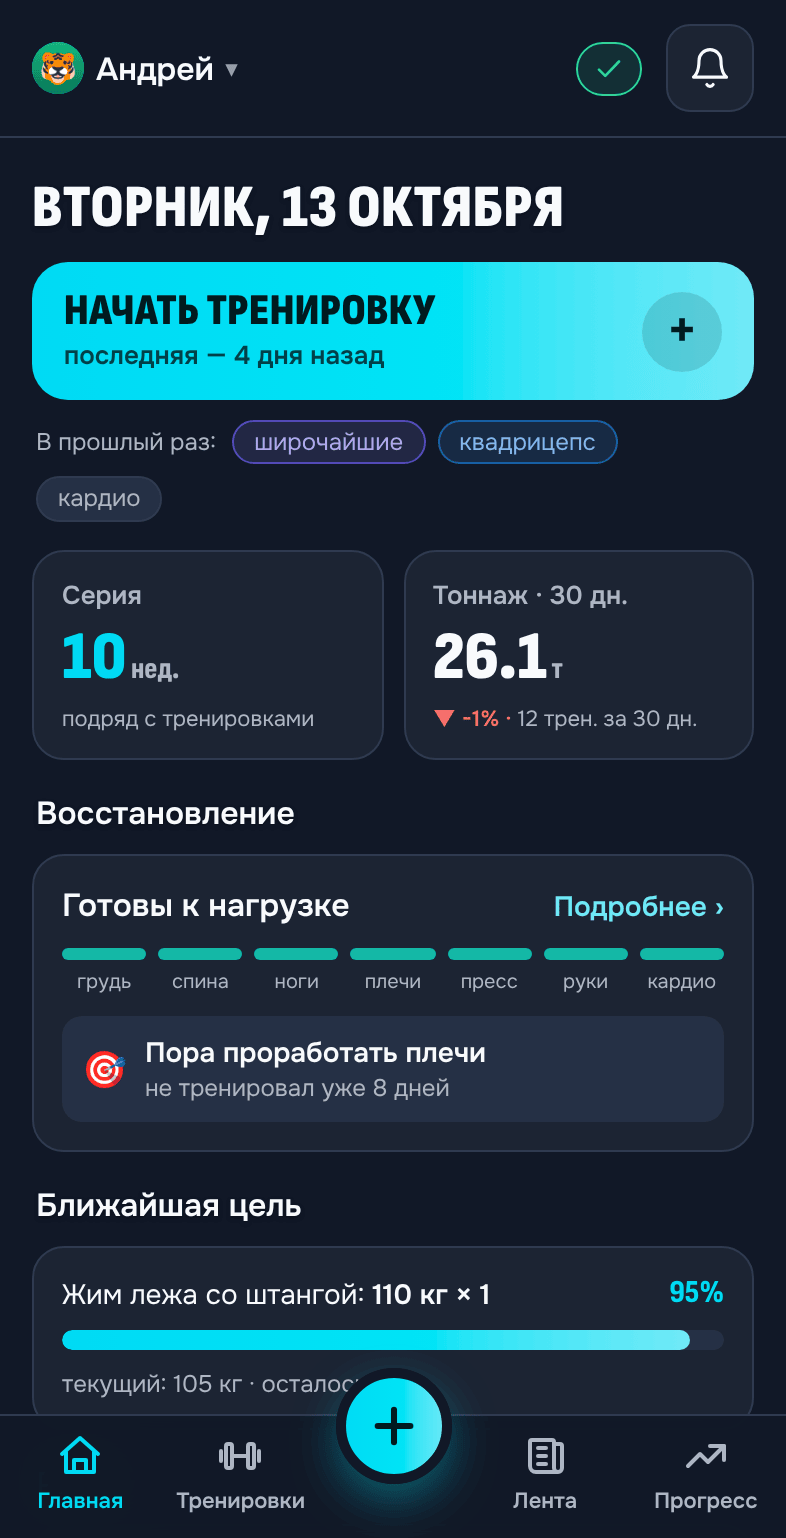
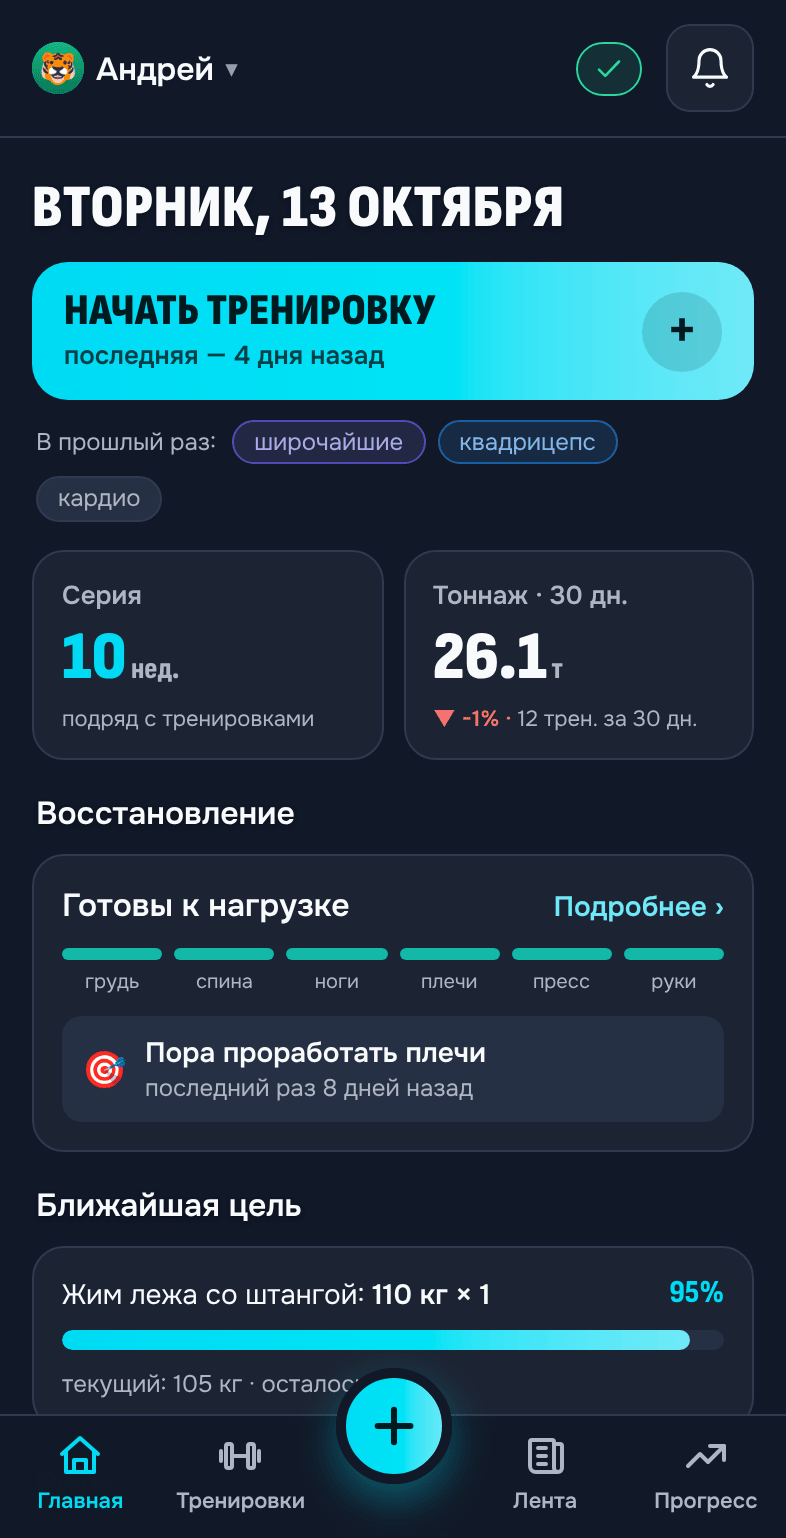
fix(recovery): кардио отдельной строкой, подсказка без рода глагола

diff --git a/src/screens/FreshnessScreen.jsx b/src/screens/FreshnessScreen.jsx
@@ -5,7 +5,8 @@ import { getWorkouts } from '../db/repo.js'
 import { groupVolumeTrend, trendLabel, WEEKS } from '../lib/groupVolume.js'
 import { plural } from '../lib/plural.js'
 import { readinessView, recoveryLead, fmtHoursLeft, regionTarget } from '../lib/freshness.js'
-import { fmtDaysAgo, fmtDays } from '../lib/homeSummary.js'
+import { fmtDaysAgo } from '../lib/homeSummary.js'
+import { LEAD_TARGET, leadSince, cardioLine } from '../lib/recoveryText.js'
 import { labelOf } from '../lib/muscles.js'
 import { groupAccusative } from '../lib/dayTags.js'
 import { byGender } from '../lib/gender.js'
@@ -29,24 +30,29 @@ const TABS = [
 // Подсказка сверху — та же логика, что у тизера Главной (recoveryLead по группам),
 // чтобы Главная и этот экран не противоречили друг другу.
 // v6.3.5: группа-цель — кнопка: подсвечивает ее мышцы на карте и в «таблетках».
-function Tip({ lead, sex, onFocusGroup }) {
-  if (!lead) return null
-  let text
-  if (lead.kind === 'target') {
+// v7.5.6: текст — lib/recoveryText (как на Главной), без рода глагола; кардио в
+// подсказку про мышцы не попадает, о нем — отдельная тихая строка (cardioDays).
+function Tip({ lead, cardioDays, onFocusGroup }) {
+  if (!lead && cardioDays == null) return null
+  let text = null
+  if (lead?.kind === 'target') {
     const g = groupAccusative(lead.item.group)
     const word = onFocusGroup
       ? <button type="button" className="fr-tip-target" onClick={() => onFocusGroup(lead.item.group)}>{g}</button>
       : <b>{g}</b>
-    text = <>Сегодня пора проработать {word} — не {byGender(sex, 'тренировал', 'тренировала')} уже {fmtDays(lead.item.daysSince)}</>
-  } else if (lead.kind === 'resting') {
+    text = <>{LEAD_TARGET} {word} — {leadSince(lead.item.daysSince)}</>
+  } else if (lead?.kind === 'resting') {
     text = <>Отдыхают: <b>{lead.items.map((f) => f.group).join(', ')}</b>. Остальное можно тренировать</>
-  } else {
+  } else if (lead) {
     text = <>Все тренированные мышцы восстановились — <b>выбирай любую группу</b></>
   }
   return (
     <div className="fr-tip">
-      <span className="em" aria-hidden="true">🎯</span>
-      <p>{text}</p>
+      <span className="em" aria-hidden="true">{text ? '🎯' : '🏃'}</span>
+      <div className="fr-tip-body">
+        {text && <p>{text}</p>}
+        {cardioDays != null && <p className="fr-tip-cardio">{text && <span aria-hidden="true">🏃 </span>}{cardioLine(cardioDays)}</p>}
+      </div>
     </div>
   )
 }
@@ -147,7 +153,7 @@ export default function FreshnessScreen({ user, onBack }) {
         </p>
       ) : (
         <>
-          <Tip lead={lead} sex={data?.sex} onFocusGroup={focusOn} />
+          <Tip lead={lead} cardioDays={data?.cardio ?? null} onFocusGroup={focusOn} />
 
           <div className="fr-map">
             <MuscleMap bySub={view.bySub} selected={mapSelected} onSelect={pickRegion} />

diff --git a/src/screens/HomeScreen.jsx b/src/screens/HomeScreen.jsx
@@ -2,14 +2,14 @@ import { useEffect, useRef, useState } from 'react'
 import { fmtHomeTitle } from '../lib/dates.js'
 import { useLiveQuery } from 'dexie-react-hooks'
 import { getHomeData } from '../db/insights.js'
-import { fmtDaysAgo, fmtDays } from '../lib/homeSummary.js'
+import { fmtDaysAgo } from '../lib/homeSummary.js'
 import { fmtTonnage } from '../lib/profileStats.js'
 import { fmtMetricValue } from '../lib/metric.js'
 import { plural } from '../lib/plural.js'
-import { tagSlug, groupAccusative, GROUP_ORDER } from '../lib/dayTags.js'
+import { tagSlug, GROUP_ORDER } from '../lib/dayTags.js'
 import { recoveryLead, readinessStatus } from '../lib/freshness.js'
 import { labelOf, majorOf } from '../lib/muscles.js'
-import { byGender } from '../lib/gender.js'
+import { leadTarget, leadSince, cardioLine } from '../lib/recoveryText.js'
 import { rhythmChart, fmtAvg, avgWord, mondayLabel } from '../lib/rhythmChart.js'
 import { useRevealFocus } from '../hooks/useRevealFocus.js'
 import CardsSkeleton from '../components/CardsSkeleton.jsx'
@@ -122,6 +122,7 @@ export default function HomeScreen({ user, onNavigate, onNewWorkout, onOpenProgr
   const rec = freshness?.recovery ?? []
   const strip = [...rec].sort((a, b) => canonIdx(a.group) - canonIdx(b.group))
   const lead = recoveryLead(rec)
+  const cardioDays = freshness?.cardio ?? null // v7.5.6: кардио — отдельной строкой, не «мышцей»
 
   // Порядок блоков (редизайн v6, этап 3; отзывы друзей): действие → серия и цифры →
   // готовность мышц и ближайшая цель ВВЕРХУ → ритм → наблюдения → рекорд.
@@ -193,8 +194,8 @@ export default function HomeScreen({ user, onNavigate, onNewWorkout, onOpenProgr
               <div className="fr-lead">
                 <span className="em" aria-hidden="true">🎯</span>
                 <div className="fr-lead-body">
-                  <div className="v">Пора проработать {groupAccusative(lead.item.group)}</div>
-                  <div className="k">не {byGender(home?.sex, 'тренировал', 'тренировала')} уже {fmtDays(lead.item.daysSince)}</div>
+                  <div className="v">{leadTarget(lead.item.group)}</div>
+                  <div className="k">{leadSince(lead.item.daysSince)}</div>
                 </div>
               </div>
             ) : lead?.kind === 'resting' ? (
@@ -216,6 +217,7 @@ export default function HomeScreen({ user, onNavigate, onNewWorkout, onOpenProgr
                 </div>
               </div>
             )}
+            {cardioDays != null && <div className="fr-cardio"><span aria-hidden="true">🏃</span> {cardioLine(cardioDays)}</div>}
           </button>
         </section>
       )}

diff --git a/src/lib/freshness.js b/src/lib/freshness.js
@@ -97,6 +97,21 @@ export function freshnessBucket(daysSince) {
 // свежее — тем ниже. overdue > due > recent > fresh.
 const BUCKET_RANK = { overdue: 4, due: 3, recent: 2, fresh: 1, never: 0 }
 
+// Кардио — не мышца (v7.5.6): в готовность мышц, «пора проработать» и «отдыхают»
+// не входит (на подмышечном уровне исключено давно). Про него — отдельная тихая
+// строка «Кардио не было N дней» (cardioGap), если перерыв от CARDIO_NUDGE_DAYS.
+export const CARDIO_GROUP = 'кардио'
+export const CARDIO_NUDGE_DAYS = 7
+
+// Дней с последнего кардио, если перерыв ≥ CARDIO_NUDGE_DAYS; иначе (или кардио не
+// было ни разу — значит, человек его не делает и напоминать не о чем) — null.
+export function cardioGap(workouts, { now = new Date() } = {}) {
+  const cur = lastTrainedByGroup(workouts).get(CARDIO_GROUP)
+  if (!cur) return null
+  const days = dayIndex(now) - cur.day
+  return days >= CARDIO_NUDGE_DAYS ? days : null
+}
+
 // Свежесть тренированных групп: массив
 //   { group, at, daysSince, hoursSince, recoveryHours, state, bucket }
 // отсортированный «кого пора тренировать» вниз к «свежим». Группы без истории
@@ -107,6 +122,7 @@ export function groupFreshness(workouts, { now = new Date() } = {}) {
   const nowT = (now instanceof Date ? now : new Date(now)).getTime()
   const out = []
   for (const [g, { day, at, t }] of map) {
+    if (g === CARDIO_GROUP) continue
     const daysSince = today - day
     const hoursSince = Math.max(0, (nowT - t) / 3600000)
     const recoveryHours = recoveryHoursFor(g)

diff --git a/src/lib/dayTags.js b/src/lib/dayTags.js
@@ -84,12 +84,20 @@ export function tagSlug(group) {
 // Винительный падеж названия группы — для фраз «тренировать <что?>» / «проработать
 // <что?>» (иначе выходит «спина не тренировал»). У большинства групп винительный
 // совпадает с именительным (грудь/ноги/плечи/бицепс/трицепс/пресс), отличается
-// только «спина» → «спину». Неизвестные группы возвращаем как есть.
+// только «спина» → «спину». Неизвестные (свои) группы из одного слова склоняем по
+// окончанию (v7.5.6): «-а» после согласной → «-у», «-ея» → «-ею» («шея» → «шею»);
+// множественное («предплечья», «икры») и прочее — как есть.
 const GROUP_ACCUSATIVE = {
   'спина': 'спину',
 }
 export function groupAccusative(group) {
-  return group ? (GROUP_ACCUSATIVE[group] ?? group) : group
+  if (!group) return group
+  if (GROUP_ACCUSATIVE[group]) return GROUP_ACCUSATIVE[group]
+  if (/^[а-яё]+$/i.test(group)) {
+    if (/[^аеёиоуыэюяьъй]а$/i.test(group)) return group.slice(0, -1) + 'у'
+    if (/ея$/i.test(group)) return group.slice(0, -1) + 'ю'
+  }
+  return group
 }
 
 // Тренировка попадает под фильтр группы (true для пустого/нулевого фильтра — «Все»).

diff --git a/src/lib/freshness.test.js b/src/lib/freshness.test.js
@@ -19,6 +19,7 @@ import {
   submuscleFreshness,
   submuscleImbalance,
   regionTarget,
+  cardioGap,
 } from './freshness.js'
 
 function wk({ id, at, entries, deleted }) {
@@ -117,6 +118,27 @@ describe('groupFreshness', () => {
   })
   it('пустая история → пустой массив', () => {
     expect(groupFreshness([], { now: NOW })).toEqual([])
+  })
+  // v7.5.6: кардио — не мышца: ни «пора проработать кардио», ни «отдыхают: кардио».
+  it('кардио в готовность мышц не входит', () => {
+    const list = [
+      wk({ id: 'run', at: daysAgo(20), entries: [{ exId: 'run', group: 'кардио' }] }),
+      wk({ id: 'back', at: daysAgo(8), entries: [{ exId: 'row', group: 'спина' }] }),
+    ]
+    expect(groupFreshness(list, { now: NOW }).map((f) => f.group)).toEqual(['спина'])
+  })
+})
+
+describe('cardioGap (v7.5.6)', () => {
+  const run = (n) => wk({ id: `run${n}`, at: daysAgo(n), entries: [{ exId: 'run', group: 'кардио' }] })
+  it('перерыв от 7 дней — число дней, свежее — null', () => {
+    expect(cardioGap([run(8), run(20)], { now: NOW })).toBe(8)
+    expect(cardioGap([run(7)], { now: NOW })).toBe(7)
+    expect(cardioGap([run(6)], { now: NOW })).toBe(null)
+  })
+  it('кардио не было ни разу — не напоминаем', () => {
+    expect(cardioGap([wk({ id: 'b', at: daysAgo(30), entries: [{ exId: 'row', group: 'спина' }] })], { now: NOW })).toBe(null)
+    expect(cardioGap([], { now: NOW })).toBe(null)
   })
 })
 

diff --git a/src/lib/recoveryText.js b/src/lib/recoveryText.js
@@ -1,0 +1,23 @@
+// Тексты подсказки «Восстановления» (v7.5.6) — одни для тизера Главной и экрана
+// «Восстановление», чтобы формулировки не разъезжались. Без рода глагола: «последний
+// раз 8 дней назад» верно и без пола в профиле (было «не тренировал уже 8 дней»).
+// Чистый модуль.
+import { groupAccusative } from './dayTags.js'
+import { fmtDaysAgo, fmtDays } from './homeSummary.js'
+
+// «Пора проработать спину» — без группы (для кнопки-ссылки на экране) отдает
+// только начало фразы.
+export const LEAD_TARGET = 'Пора проработать'
+export function leadTarget(group) {
+  return `${LEAD_TARGET} ${groupAccusative(group)}`
+}
+
+// «последний раз 8 дней назад»
+export function leadSince(days) {
+  return `последний раз ${fmtDaysAgo(days)}`
+}
+
+// «Кардио не было 8 дней»
+export function cardioLine(days) {
+  return `Кардио не было ${fmtDays(days)}`
+}

diff --git a/src/db/insights.js b/src/db/insights.js
@@ -14,6 +14,7 @@ import { buildInsights } from '../lib/insights.js'
 import { buildHomeSummary } from '../lib/homeSummary.js'
 import {
   groupFreshness,
+  cardioGap,
   imbalance as computeImbalance,
   submuscleFreshness,
   submuscleImbalance,
@@ -52,6 +53,7 @@ export async function getHomeData(userId, { max = 3 } = {}) {
     insights: buildInsights({ workouts, leaderboard, userId, max, sex }),
     freshness: {
       recovery: groupFreshness(workouts),
+      cardio: cardioGap(workouts),
       imbalance: computeImbalance(workouts),
       recoverySub: submuscleFreshness(workouts),
       imbalanceSub: submuscleImbalance(workouts),
@@ -74,6 +76,7 @@ export async function getFreshness(userId) {
     sex,
     // major-уровень — тизер Главной + heatmap-силуэт (MuscleMap пока по группам)
     recovery: groupFreshness(workouts),
+    cardio: cardioGap(workouts), // дней без кардио (≥7) или null — v7.5.6
     imbalance: computeImbalance(workouts),
     // submuscle-уровень (слайс 3a) — recovery-список и дисбаланс детального экрана
     recoverySub: submuscleFreshness(workouts),

diff --git a/src/lib/dayTags.test.js b/src/lib/dayTags.test.js
@@ -35,6 +35,11 @@ describe('dayTags', () => {
 })
 
 describe('groupAccusative', () => {
+  it('свои группы из одного слова склоняются по окончанию (v7.5.6)', () => {
+    expect(groupAccusative('шея')).toBe('шею')
+    expect(groupAccusative('растяжка')).toBe('растяжку')
+    expect(groupAccusative('верх спины')).toBe('верх спины')
+  })
   it('«спина» → «спину»', () => {
     expect(groupAccusative('спина')).toBe('спину')
   })
@@ -45,6 +50,9 @@ describe('groupAccusative', () => {
   })
   it('неизвестная группа и пустое — без изменений', () => {
     expect(groupAccusative('предплечья')).toBe('предплечья')
+    expect(groupAccusative('трапеции')).toBe('трапеции')
+    expect(groupAccusative('ягодицы')).toBe('ягодицы')
+    expect(groupAccusative('кардио')).toBe('кардио')
     expect(groupAccusative(null)).toBe(null)
     expect(groupAccusative('')).toBe('')
   })

diff --git a/src/screens/FreshnessScreen.test.jsx b/src/screens/FreshnessScreen.test.jsx
@@ -63,6 +63,15 @@ describe('FreshnessScreen «Восстановление» (v6.3.5)', () => {
     expect(document.querySelector('.fr-chip.on')).toBeNull()
   })
 
+  it('подсказка без рода глагола; кардио — отдельной строкой (v7.5.6)', () => {
+    vi.mocked(useLiveQuery).mockImplementation((fn, deps, def) => (def === undefined ? { ...data, cardio: 8 } : []))
+    render(<FreshnessScreen user={{ id: 'u1' }} onBack={() => {}} />)
+    const tip = document.querySelector('.fr-tip')
+    expect(tip).toHaveTextContent('Пора проработать бицепс — последний раз 9 дней назад')
+    expect(tip).not.toHaveTextContent('тренировал')
+    expect(document.querySelector('.fr-tip-cardio')).toHaveTextContent('Кардио не было 8 дней')
+  })
+
   it('мышца без данных — так и пишем', () => {
     render(<FreshnessScreen user={{ id: 'u1' }} onBack={() => {}} />)
     fireEvent.click(screen.getAllByRole('button', { name: 'трапеция' })[0])

diff --git a/src/lib/recoveryText.test.js b/src/lib/recoveryText.test.js
@@ -1,0 +1,17 @@
+import { describe, it, expect } from 'vitest'
+import { leadTarget, leadSince, cardioLine } from './recoveryText.js'
+
+describe('recoveryText (v7.5.6)', () => {
+  it('«пора проработать» — винительный падеж', () => {
+    expect(leadTarget('спина')).toBe('Пора проработать спину')
+    expect(leadTarget('ноги')).toBe('Пора проработать ноги')
+  })
+  it('давность без рода глагола', () => {
+    expect(leadSince(8)).toBe('последний раз 8 дней назад')
+    expect(leadSince(21)).toBe('последний раз 21 день назад')
+  })
+  it('кардио — своей фразой', () => {
+    expect(cardioLine(8)).toBe('Кардио не было 8 дней')
+    expect(cardioLine(22)).toBe('Кардио не было 22 дня')
+  })
+})

diff --git a/src/content/whatsNew.js b/src/content/whatsNew.js
@@ -22,7 +22,7 @@
 
 export const WHATS_NEW = [
   {
-    version: '7.5.5',
+    version: '7.5.6',
     date: '2026-10-13',
     push: false,
     headline: 'Сканер на весь экран и новый бот для PIN',
@@ -42,6 +42,7 @@ export const WHATS_NEW = [
       { e: '📷', t: 'Значок сканера в поиске больше не уползает при нажатии' },
       { e: '🫀', t: 'Восстановление: мышца с рисунка сразу видна в списке и деталях' },
       { e: '✍', t: 'Текст можно выделить и скопировать — экран больше не уезжает «назад»' },
+      { e: '🏃', t: 'Кардио больше не «мышца»: о нем — строка «Кардио не было N дней»' },
     ],
   },
   {

diff --git a/src/index.css b/src/index.css
@@ -2991,6 +2991,11 @@ label.act.busy { opacity: .55; pointer-events: none; }
 }
 .fr-tip .em { font-size: 18px; flex: none; }
 .fr-tip p { margin: 0; font-size: 13px; line-height: 1.4; }
+/* Строка про кардио (v7.5.6): тихая, под подсказкой про мышцы — кардио не «мышца». */
+.fr-tip-body { min-width: 0; }
+.fr-tip-cardio { color: var(--muted); }
+.fr-tip-body p + .fr-tip-cardio { margin-top: 4px; }
+.fr-cardio { margin-top: 8px; color: var(--muted); font-size: 12px; text-align: left; }
 .fr-tip b { color: var(--acc-2); }
 /* Группа-цель в подсказке — кнопка-ссылка: подсвечивает свои мышцы (v6.3.5). */
 .fr-tip-target {
